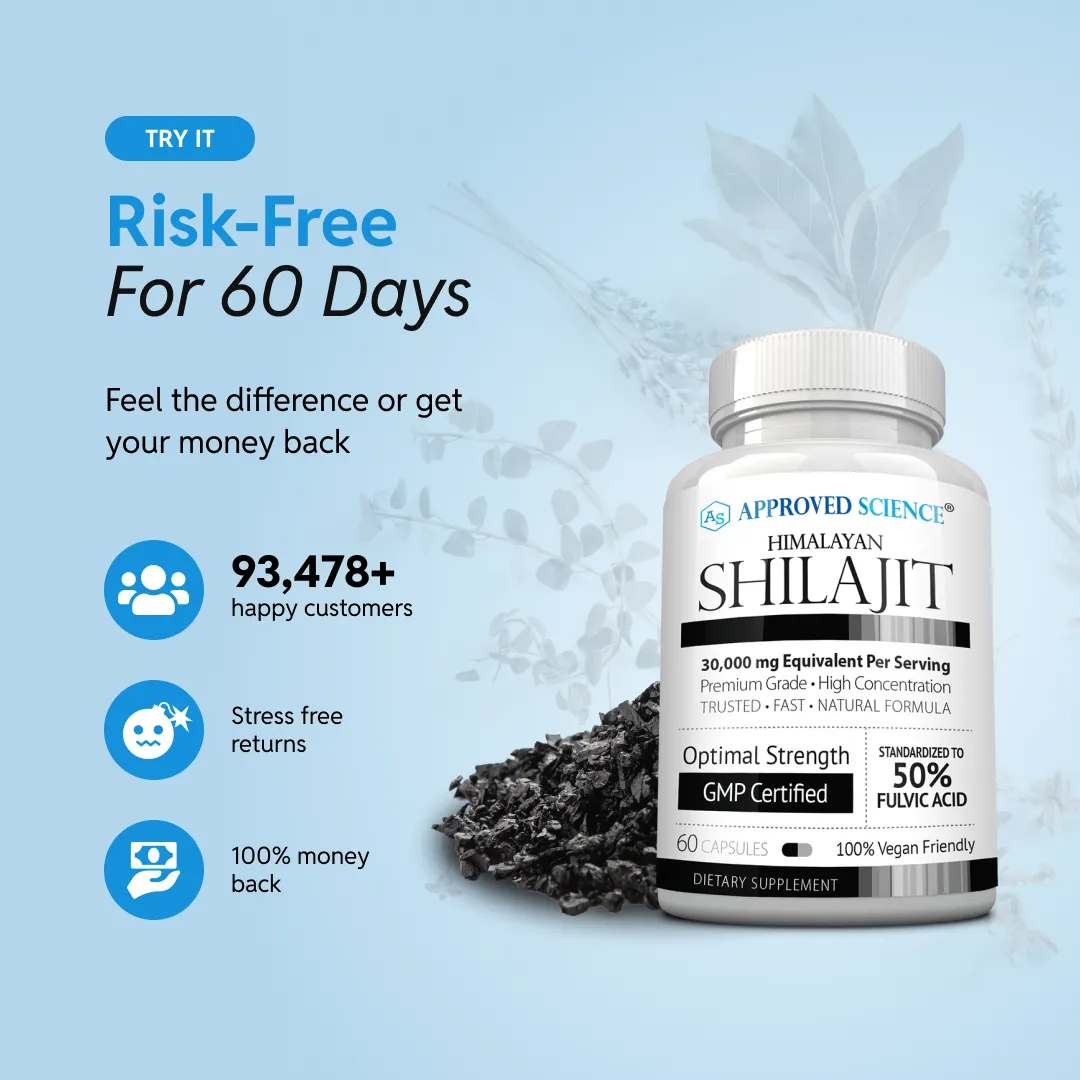
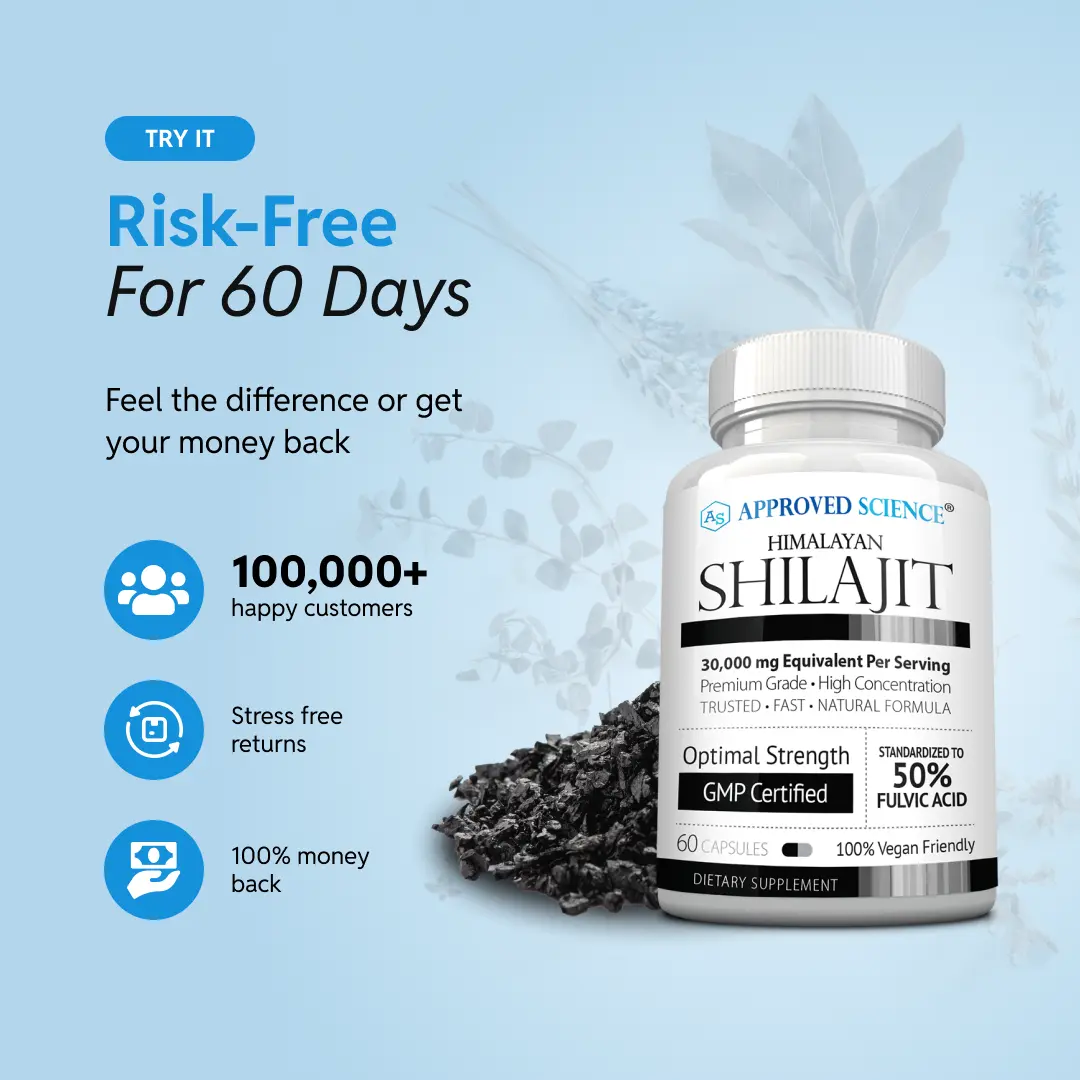
update the information on the thumbnails

Changed region(s): [[0.2139, 0.4889, 0.3972, 0.55], [0.0917, 0.6417, 0.1833, 0.7028]]

diff --git a/public/index.html b/public/index.html
@@ -1103,7 +1103,7 @@
           >Capsules VS Gummies VS Resin</span
         >
         <h2 class="text-[32px] font-bold text-center">
-          Not All shilajit is Created Equal
+          Not All Shilajit is Created Equal
         </h2>
         <span class="text-gray-700 block lg:w-1/3 mx-auto text-center">
           The difference isn't just what you take — it's the purity, potency,
@@ -1446,7 +1446,8 @@
               class="text-[18px] list-inside lg:leading-11 my-4 list-image-[url(../images/check.png)]"
             >
               <li>
-                <strong>40% OFF</strong> - Approved Science® Himalayan Shilajit
+                <strong>Save up to 47% OFF</strong> - Approved Science®
+                Himalayan Shilajit
               </li>
               <li>&nbsp;<strong>60-Day Money-back Guarantee</strong></li>
               <li><strong>FREE Shipping</strong> For Order Above $70</li>